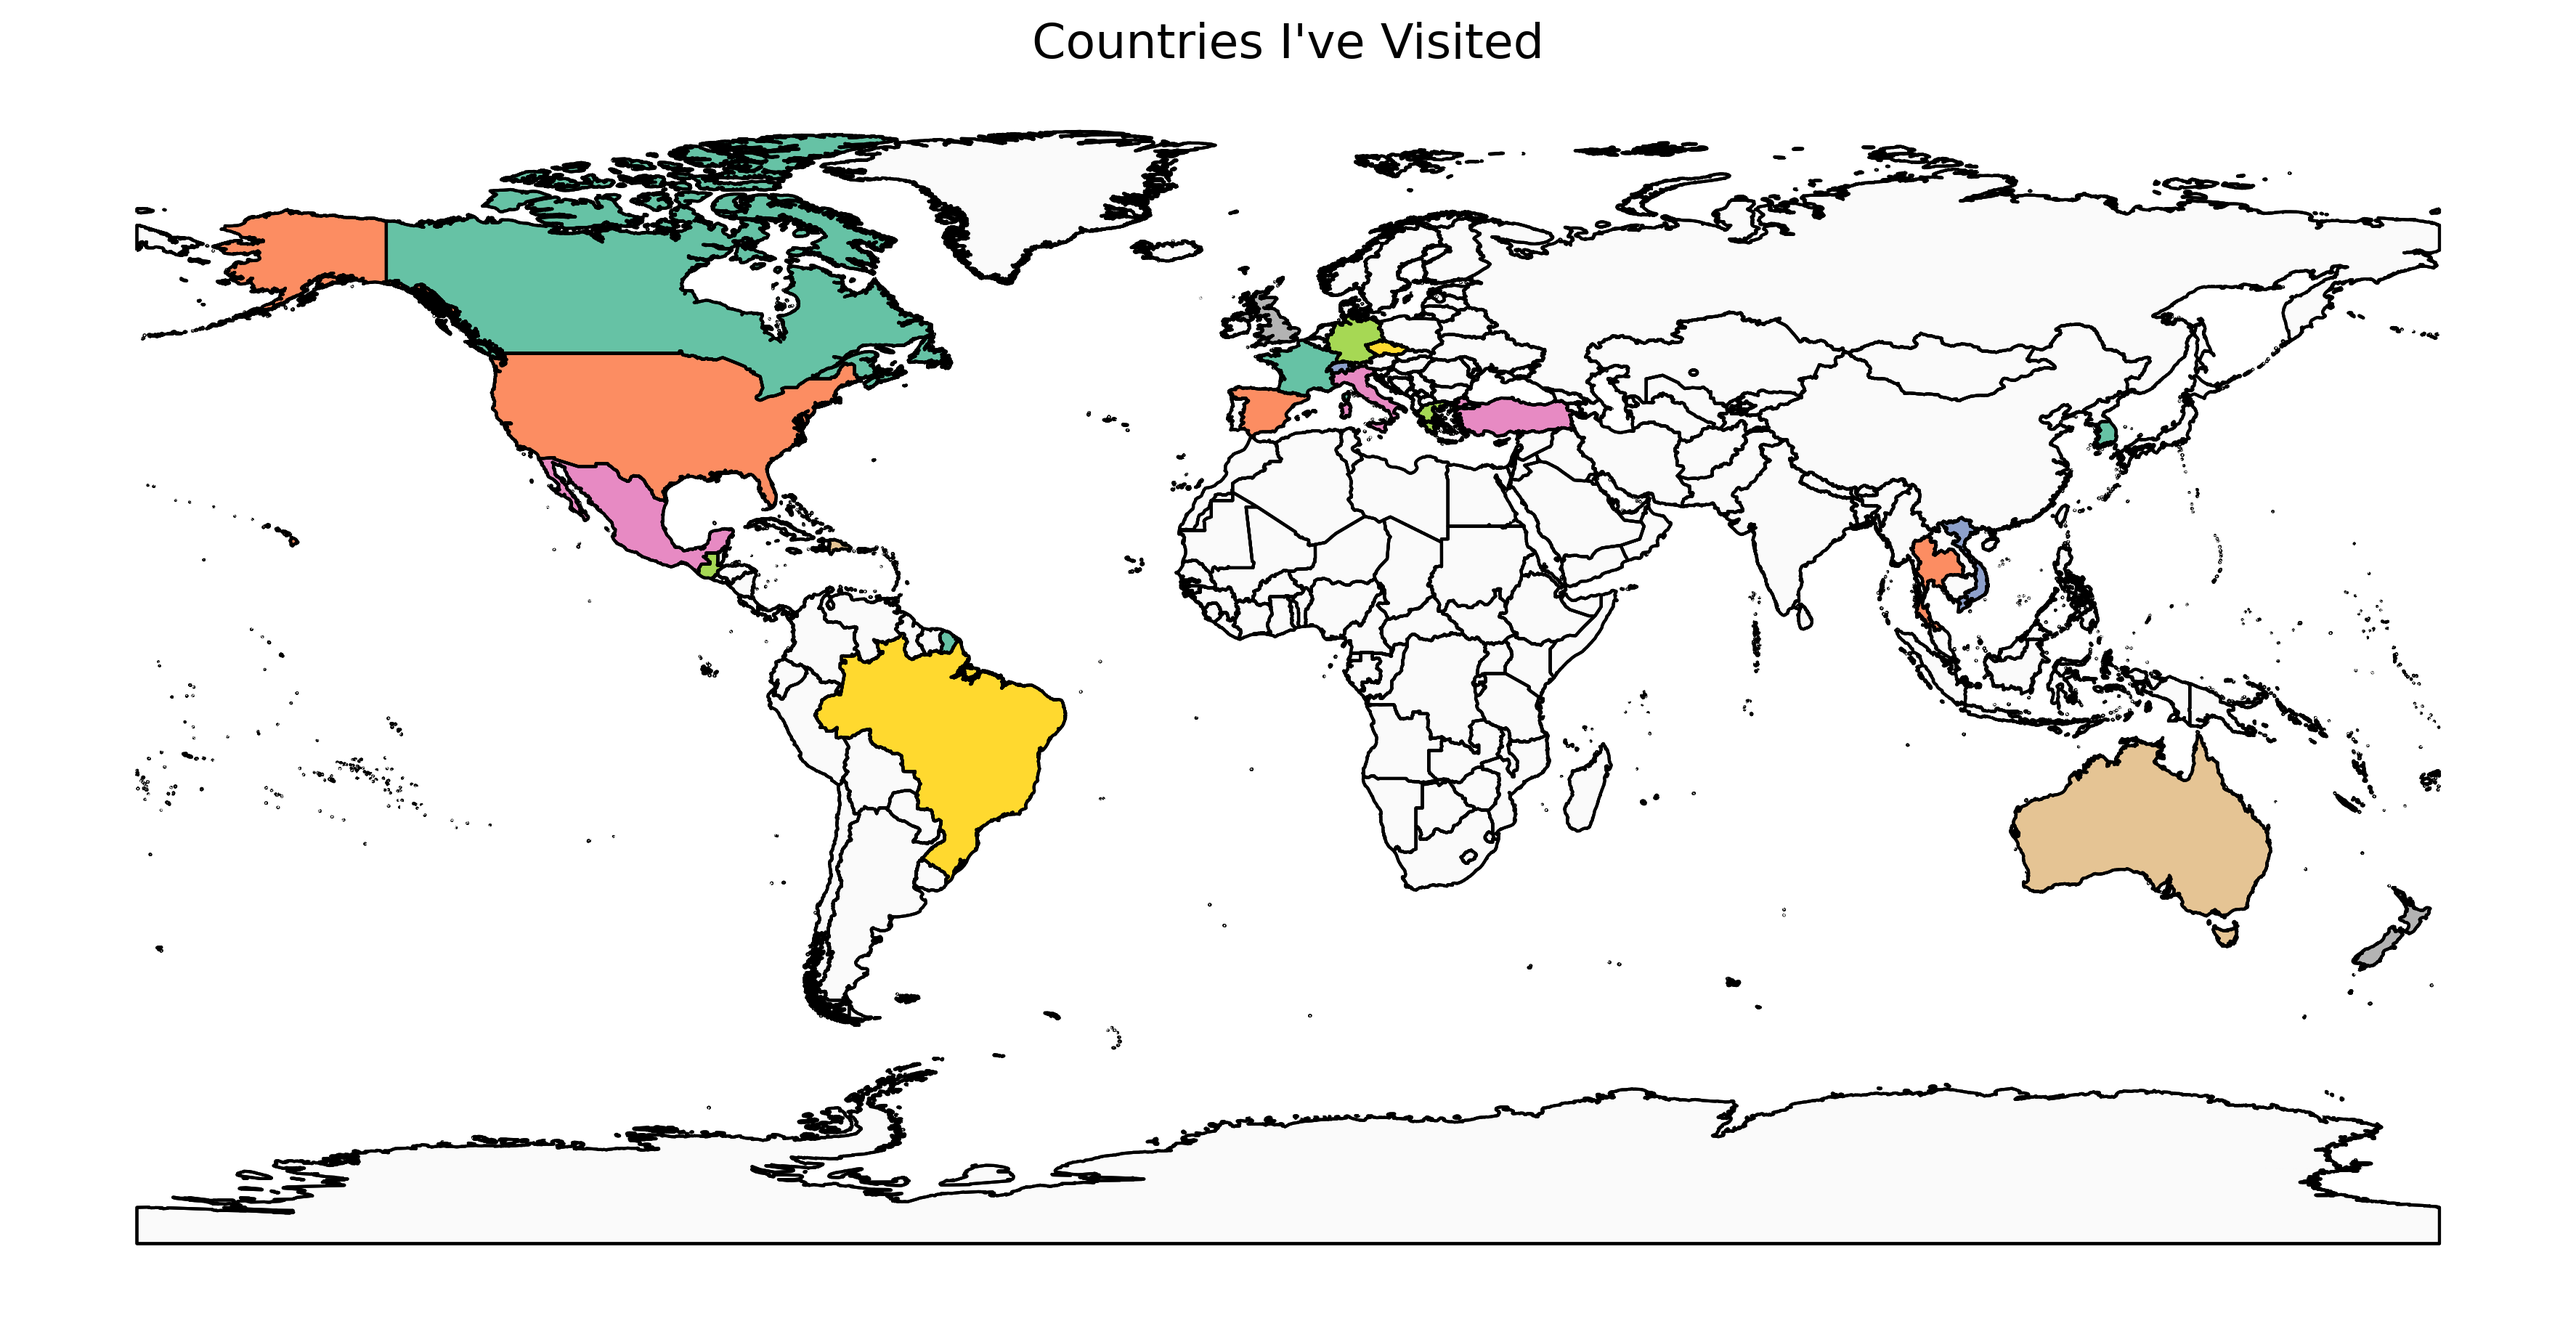
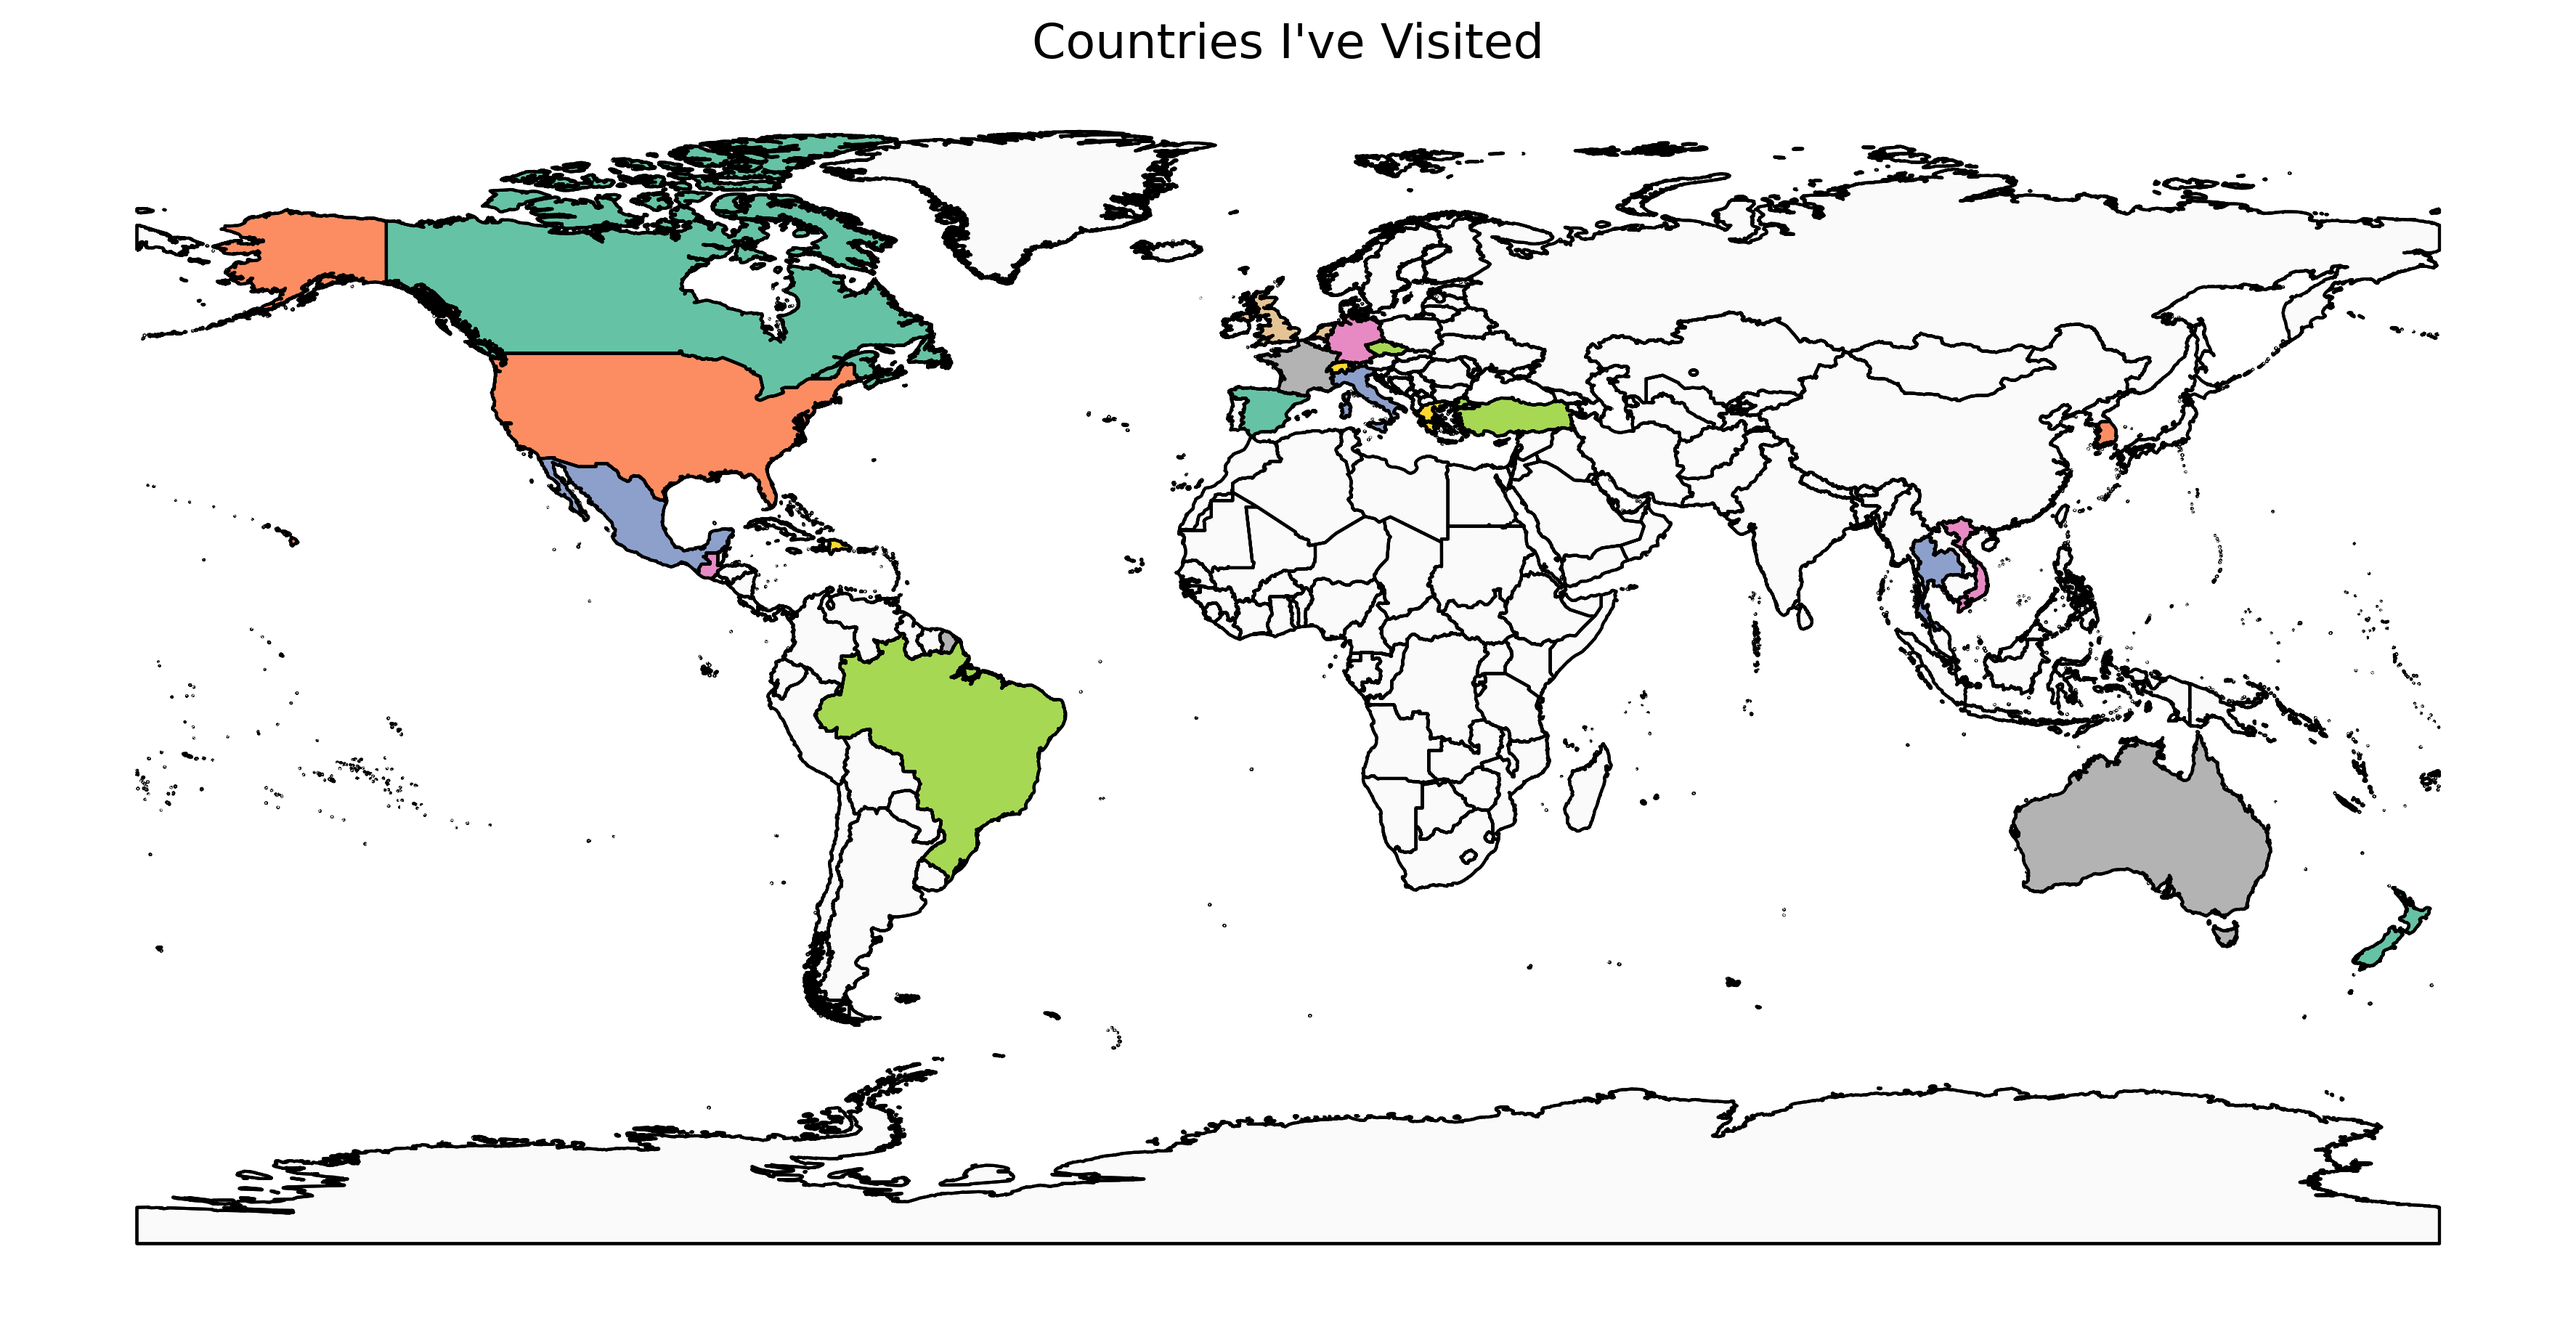
2024-09-12_20:19:04

diff --git a/_utils/visited_countries_plot.py b/_utils/visited_countries_plot.py
@@ -15,7 +15,6 @@ world = gpd.read_file(shapefile_path)
 visited_countries = [
     "CAN",
     "USA",
-    "CHE",
     "MEX",
     "GTM",
     "BRA",
@@ -27,6 +26,8 @@ visited_countries = [
     "ITA",
     "DEU",
     "CZE",
+    "CHE",
+    "NLD",
     "AUS",
     "NZL",
     "KOR",

diff --git a/_posts/2024-09-05-countries-i-ve-travelled-to.md b/_posts/2024-09-05-countries-i-ve-travelled-to.md
@@ -12,11 +12,10 @@ toc_sticky: true
 
 ![PIC](/assets/images/2024-09-05-countries-i-ve-travelled-to/visited_countries.png)
 
-# Count = 22 (As of 2024-09-12)
+# Count = 23 (As of 2024-09-12)
 
 ## 🇨🇦 Canada
 ## 🇺🇸 United States
-## 🇨🇭 Switzerland
 ## 🇲🇽 Mexico
 ## 🇬🇹 Guatemala
 ## 🇧🇷 Brazil
@@ -28,6 +27,8 @@ toc_sticky: true
 ## 🇮🇹 Italy
 ## 🇩🇪 Germany
 ## 🇨🇿 Czechia
+## 🇨🇭 Switzerland
+## 🇳🇱 Netherlands
 ## 🇦🇺 Australia
 ## 🇳🇿 New Zealand
 ## 🇰🇷 Korea, Republic of
